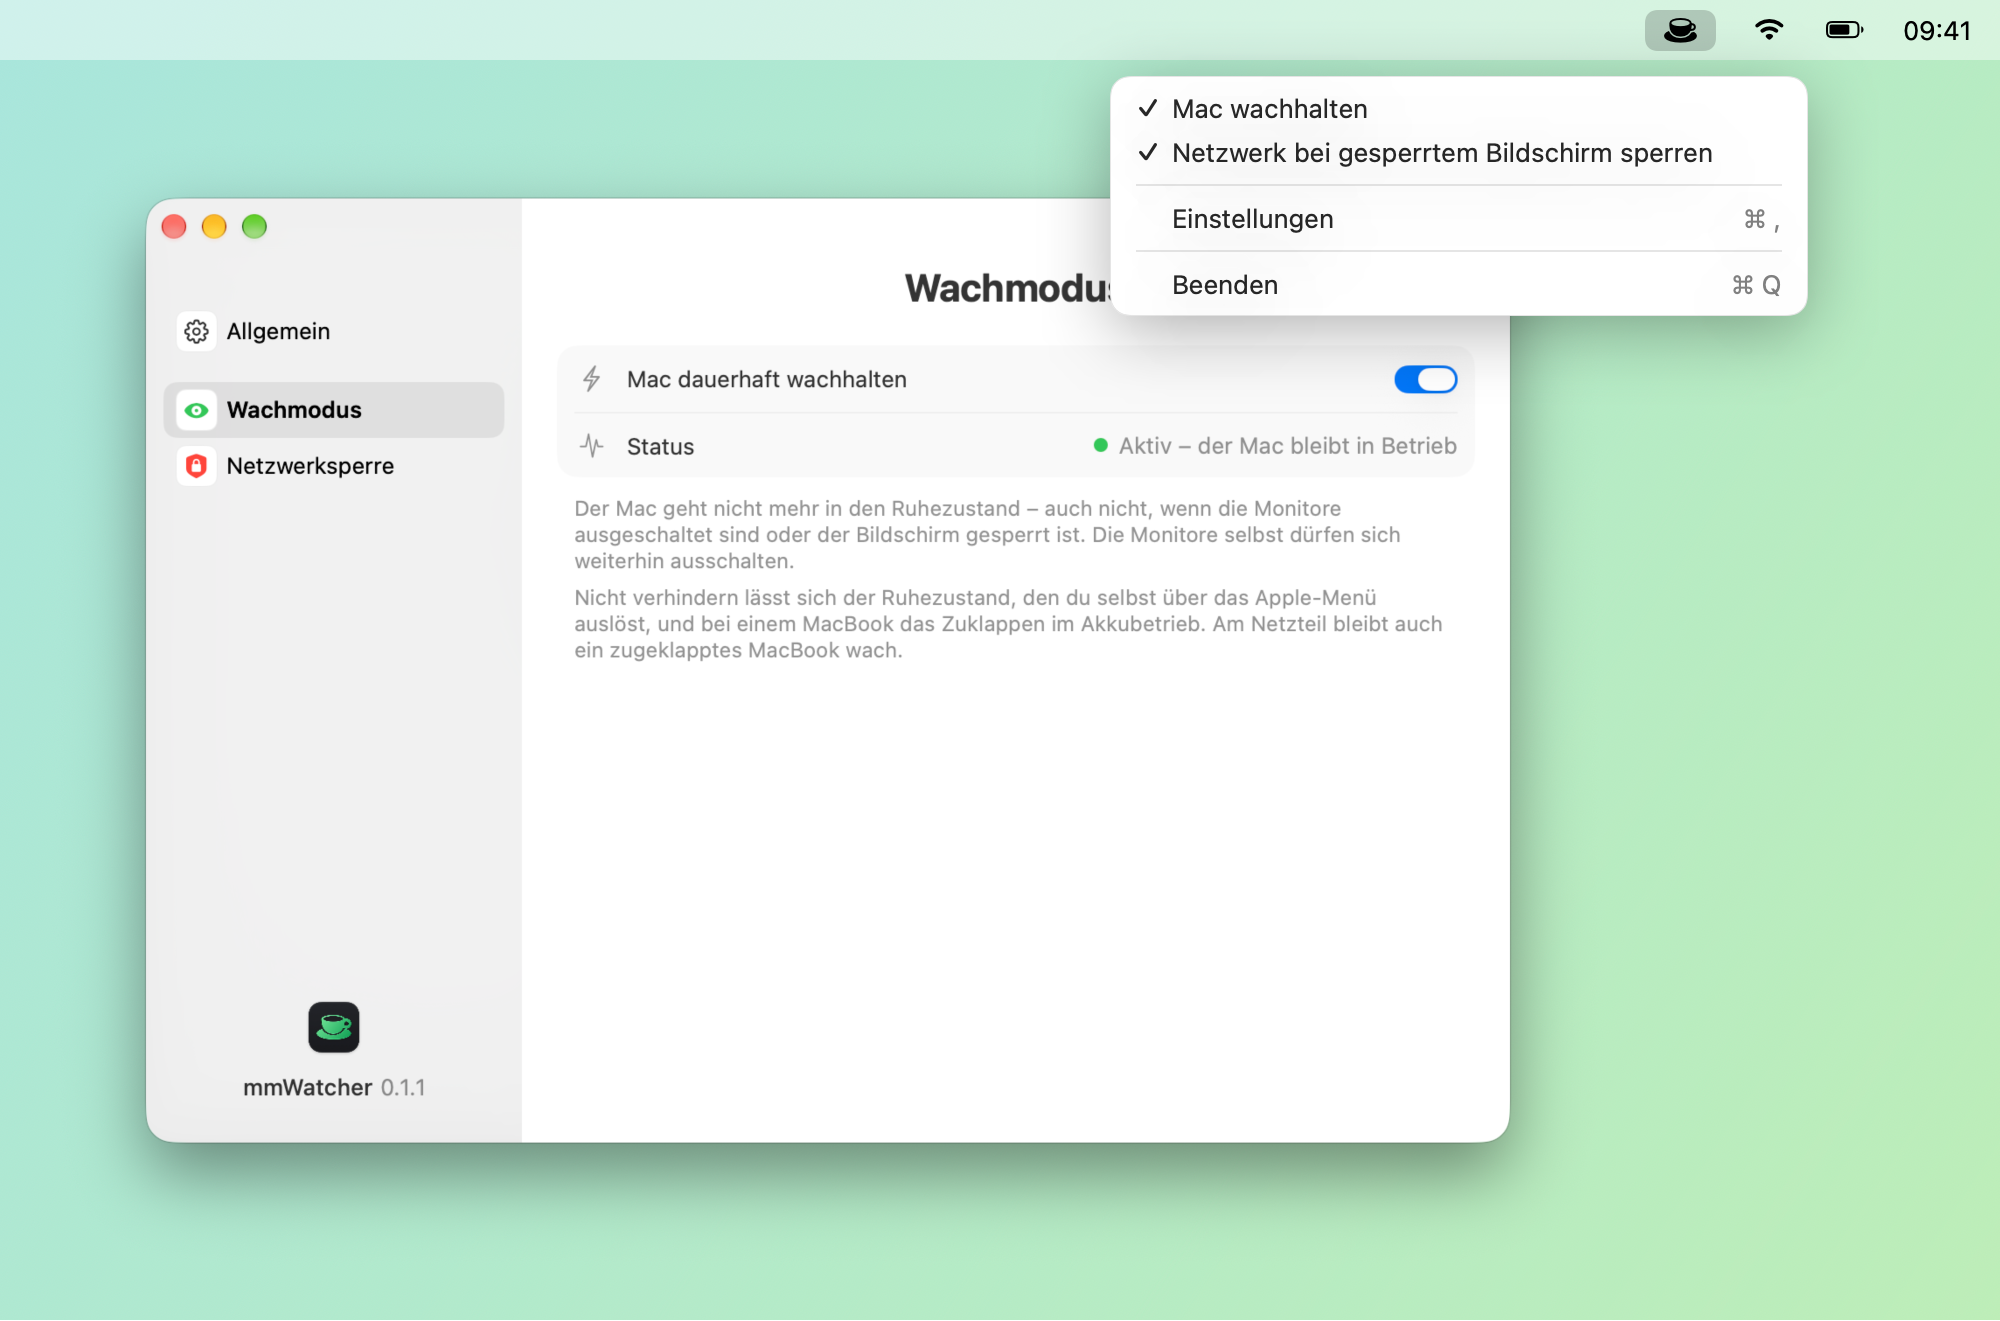
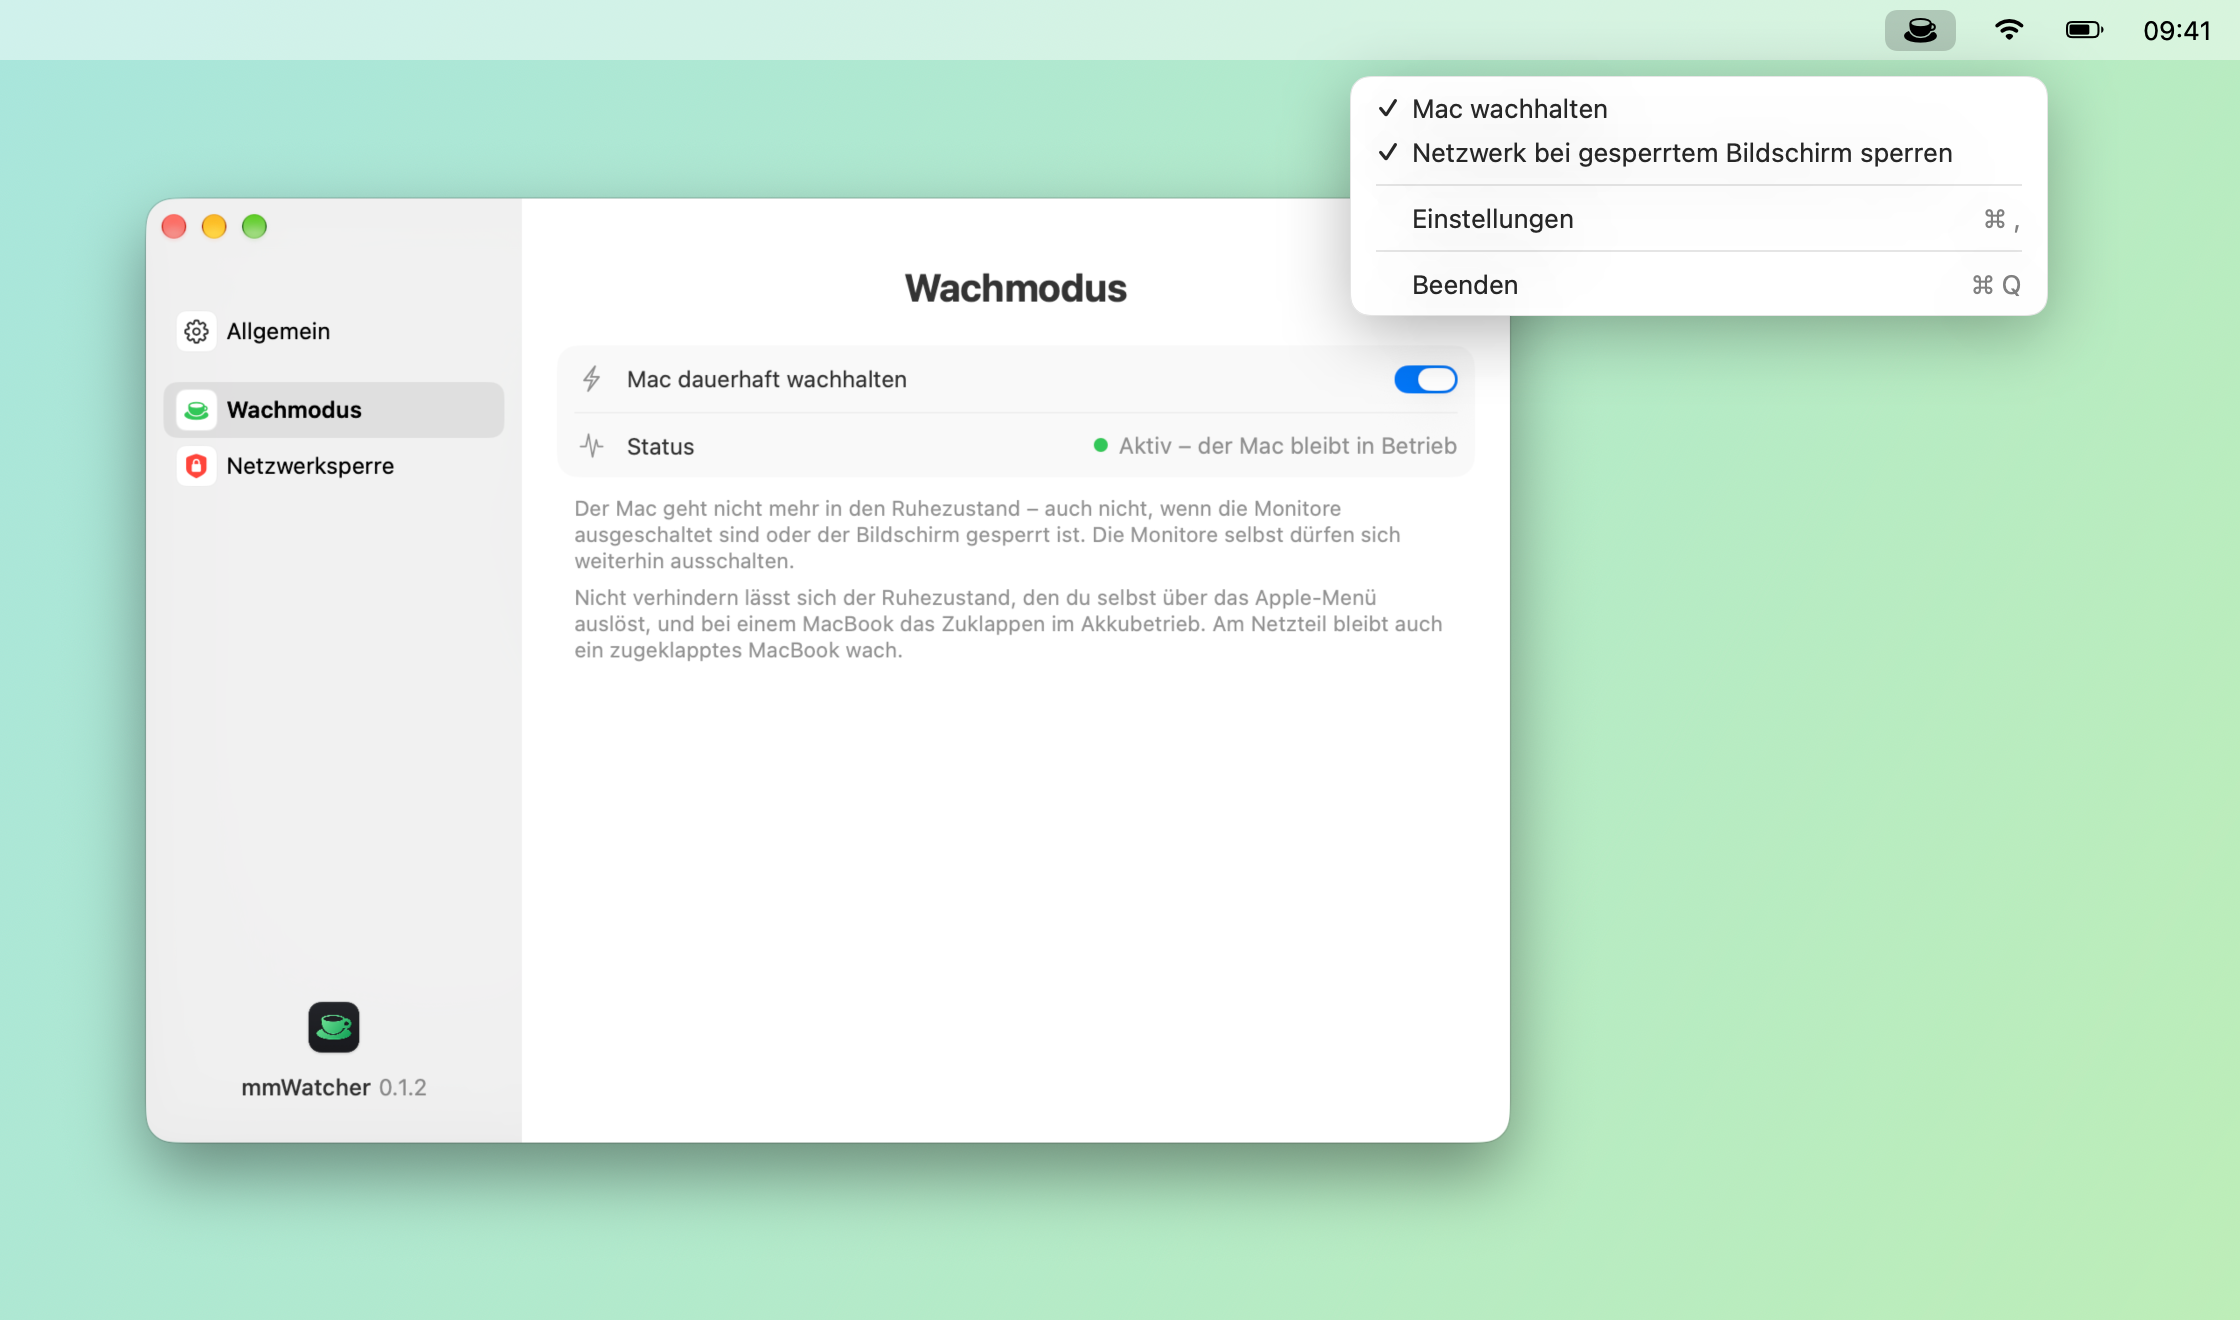
README und Bilder für 0.1.2: Erscheinungsbild, Kachel Wachmodus mit Tasse

diff --git a/README.md b/README.md
@@ -20,6 +20,7 @@
 - **Netzwerksperre:** Sobald der Bildschirm gesperrt wird, sperrt mmWatcher wahlweise die gesamte Netzwerkverbindung oder nur eingehende Verbindungen – Fernzugriff ist dann unmöglich. Beim Entsperren ist das Netzwerk sofort wieder offen.
 - **Nur Menüleiste:** Ein Klick öffnet die Einstellungen, ein Rechtsklick schaltet Wachmodus und Netzwerksperre ein und aus. Das Symbol ist wählbar und lässt sich ausblenden.
 - **Start bei der Anmeldung** und nach jedem Neustart.
+- **Erscheinungsbild** wählbar: Automatisch (wie das System), Hell oder Dunkel.
 - **Automatische Updates** nach Bestätigung, **Deutsch, Englisch, Französisch, Italienisch und Spanisch**, Liquid Glass ab macOS 26.
 
 <picture>
@@ -31,18 +32,18 @@
 
 <p align="center">
   <picture>
-    <source media="(prefers-color-scheme: dark)" srcset="images/de/settings-awake-dark.png">
-    <img src="images/de/settings-awake-light.png" width="49%" alt="Einstellungen – Wachmodus">
+    <source media="(prefers-color-scheme: dark)" srcset="images/de/settings-general-dark.png">
+    <img src="images/de/settings-general-light.png" width="49%" alt="Einstellungen – Allgemein mit Erscheinungsbild">
   </picture>
   <picture>
-    <source media="(prefers-color-scheme: dark)" srcset="images/de/settings-network-dark.png">
-    <img src="images/de/settings-network-light.png" width="49%" alt="Einstellungen – Netzwerksperre">
+    <source media="(prefers-color-scheme: dark)" srcset="images/de/settings-awake-dark.png">
+    <img src="images/de/settings-awake-light.png" width="49%" alt="Einstellungen – Wachmodus">
   </picture>
 </p>
 <p align="center">
   <picture>
-    <source media="(prefers-color-scheme: dark)" srcset="images/de/settings-general-dark.png">
-    <img src="images/de/settings-general-light.png" width="49%" alt="Einstellungen – Allgemein">
+    <source media="(prefers-color-scheme: dark)" srcset="images/de/settings-network-dark.png">
+    <img src="images/de/settings-network-light.png" width="49%" alt="Einstellungen – Netzwerksperre">
   </picture>
   <picture>
     <source media="(prefers-color-scheme: dark)" srcset="images/de/about-dark.png">
@@ -86,16 +87,27 @@ mmWatcher keeps your Mac awake permanently – and, if you like, blocks the netw
 - **Network lock:** as soon as the screen is locked, mmWatcher blocks either the entire network connection or incoming connections only – remote access becomes impossible. When you unlock the screen, the network is open again right away.
 - **Menu bar only:** a click opens the settings, a right-click switches awake mode and network lock on and off. Choose the icon or hide it.
 - **Launch at login** and after every restart.
+- **Appearance** of your choice: Automatic (like the system), Light or Dark.
 - **Automatic updates** once you confirm, **English, German, French, Italian and Spanish**, Liquid Glass on macOS 26 and later.
 
 <p align="center">
   <picture>
+    <source media="(prefers-color-scheme: dark)" srcset="images/en/settings-general-dark.png">
+    <img src="images/en/settings-general-light.png" width="49%" alt="Settings – General with appearance">
+  </picture>
+  <picture>
     <source media="(prefers-color-scheme: dark)" srcset="images/en/settings-awake-dark.png">
     <img src="images/en/settings-awake-light.png" width="49%" alt="Settings – Awake Mode">
   </picture>
+</p>
+<p align="center">
   <picture>
     <source media="(prefers-color-scheme: dark)" srcset="images/en/settings-network-dark.png">
     <img src="images/en/settings-network-light.png" width="49%" alt="Settings – Network Lock">
+  </picture>
+  <picture>
+    <source media="(prefers-color-scheme: dark)" srcset="images/en/about-dark.png">
+    <img src="images/en/about-light.png" width="49%" alt="About window">
   </picture>
 </p>
 
